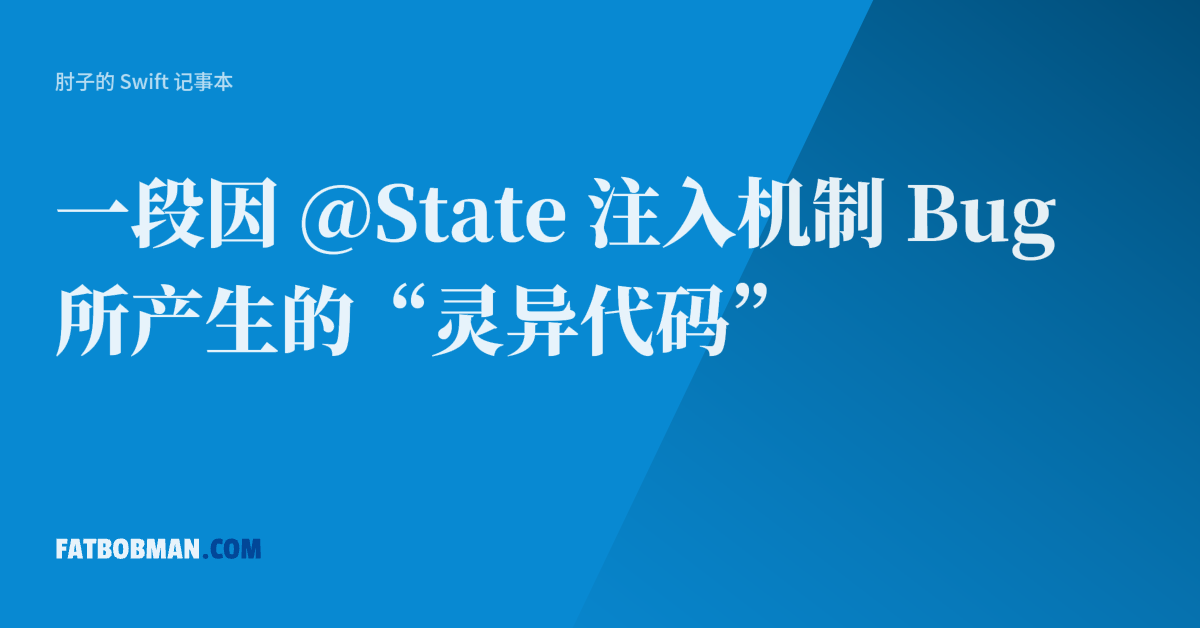
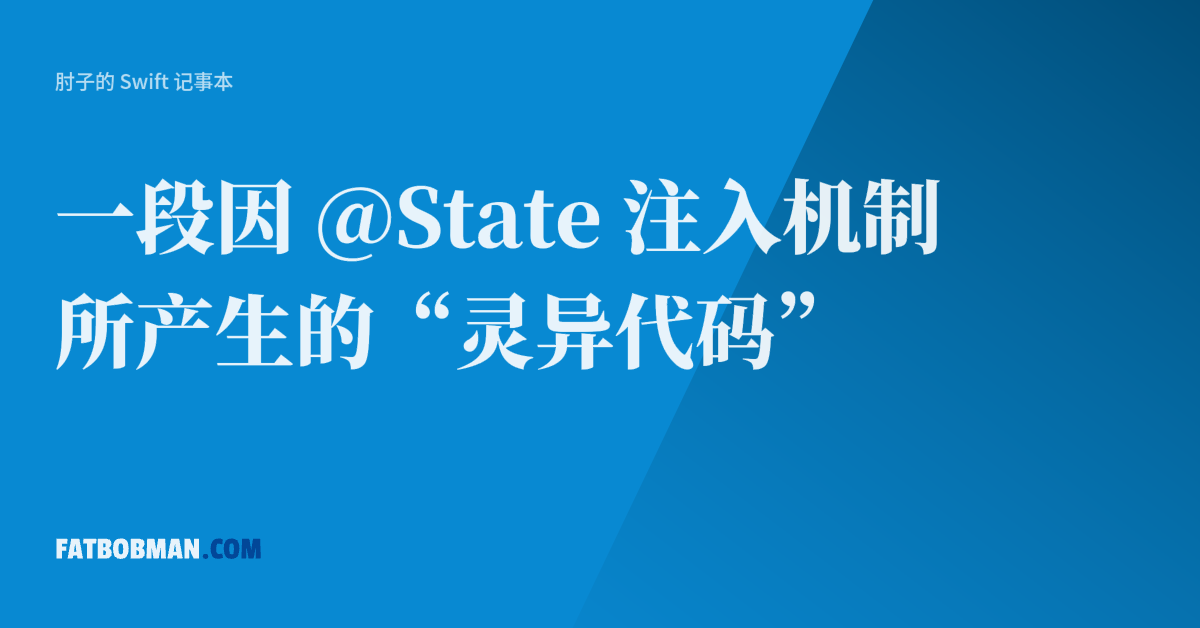
add baidu

Changed region(s): [[0.0308, 0.2723, 0.8942, 0.4236], [0.0308, 0.4538, 0.6783, 0.6051]]

diff --git a/Sources/FatbobmanBlog/Views/FatTheme.swift b/Sources/FatbobmanBlog/Views/FatTheme.swift
@@ -180,13 +180,13 @@ private struct FatThemeHTMLFactory<Site: Website>: HTMLFactory {
                             for: context,
                             selectedSection: FatbobmanBlog.SectionID.tips as? Site.SectionID
                         ),
-                       else:
-                       .header(
-                        for: context,
-                        selectedSection: nil
+                        else:
+                        .header(
+                            for: context,
+                            selectedSection: nil
+                        )
                     )
-                    )
-                    
+
                 ),
                 .container(
                     .wrapper(
@@ -533,6 +533,16 @@ let googleAndBaidu = """
 
     ga('create', _gaId, _gaDomain);
     ga('send', 'pageview');
+</script>
+
+<script>
+var _hmt = _hmt || [];
+(function() {
+  var hm = document.createElement("script");
+  hm.src = "https://hm.baidu.com/hm.js?14e5d60a3ea6276655f9d14c58b1fcd0";
+  var s = document.getElementsByTagName("script")[0]; 
+  s.parentNode.insertBefore(hm, s);
+})();
 </script>
 """
 

diff --git a/Content/posts/bug-code-by-state-inject.md b/Content/posts/bug-code-by-state-inject.md
@@ -2,7 +2,7 @@
 date: 2023-02-23 08:20
 description: 本文将通过一段可复现的“灵异代码”，对 State 注入优化机制、模态视图（ Sheet、FullScreenCover ）内容的生成时机以及不同上下文（ 相互独立的视图树 ）之间的数据协调等问题进行探讨。
 tags: SwiftUI,小题大做
-title: 一段因 @State 注入机制 Bug 所产生的“灵异代码”
+title: 一段因 @State 注入机制所产生的“灵异代码”
 image: images/bug-code-by-state-inject.png
 ---
 本文将通过一段可复现的“灵异代码”，对 State 注入优化机制、模态视图（ Sheet、FullScreenCover ）内容的生成时机以及不同上下文（ 相互独立的视图树 ）之间的数据协调等问题进行探讨。
@@ -229,9 +229,7 @@ Button("Set n = 2") {
 
 这意味着，相较于在原有视图树上创建分支，在新上下文中重建视图树的开销更大，需要进行的工作也更多。
 
-而 SwiftUI 为了优化效率，通常会对若干操作进行合并，并汇总在 一个 Render Loop 中执行。在合并操作的过程中，如果出现了前后顺序错误的问题，那么就会导致一些奇怪的结果。
-
-根据本文问题代码的表现，我们基本可以推测出，在新建 Sheet 视图树的过程中，SwiftUI 在将原有视图的 State 与 Sheet 视图进行关联时，出现了顺序错乱的问题。在已经完成了对 Sheet 视图（ 对 body 求值 ）的渲染后才进行关联。如此会导致在首次渲染时，获取的未必为最新关联值。
+而 SwiftUI 为了优化效率，通常会对若干操作进行合并。即使为新上下文中的视图进行的关联操作是在视图求值操作之前完成的，但由于 n 的变化与关联操作被集中在一个 Render Loop 中，这样会导致在关联之后并不会强制新关联的视图刷新（ 关联后，值并没有发生变化 ）。
 
 ```responser
 id:1
@@ -253,7 +251,7 @@ id:1
 
   尽管 show 也是通过 State 声明的，但 show 的变化并不会导致 ContextView 重新更新。这是因为在 `.fullScreenCover` 的构造方法中，我们传递的是 show 的 projectedValue（ Binding 类型 ）
 
-* 由于合并操作中执行顺序出现了问题，SwiftUI 在 Sheet 视图完成对 n 的关联前，率先对视图内容进行了求值（ 此时 n 为 1）并根据此值进行了渲染
+* 由于合并操作的原因，在 Sheet 视图关联到 n 后，并不会重新更新
 
 * Sheet 中的 Text 显示 n = 1
 
@@ -266,13 +264,13 @@ id:1
 * 点击 Button 后，由于 n 值发生了变化，ContextView 重新求值（ 重新解析 DSL 代码 ）
 * 在重新求值的过程中，`.fullScreenCover` 的闭包捕获了新的 n 值 （ n = 2 ）
 * 创建 Sheet 视图并渲染
-* 尽管在合并操作中出现先渲染后才关联的问题，但由于 `.fullScreenCover` 闭包已经毕竟捕获了新值，因此 Sheet 的 Text 显示为 n = 2
+* 由于 `.fullScreenCover` 闭包已经毕竟捕获了新值，因此 Sheet 的 Text 显示为 n = 2
 
 也就是说，通过添加 Text，让 ContextView 与 n 创建了关联，在 n 变化后，ContextView 进行了重新求值，从而让 `fullScreenCover` 的闭包捕获了变化后的 n 值，并呈现了预期中的结果。
 
 ## 解决方案
 
-在了解了错误的原因后，解决并避免再次出现类似的奇怪现象已不是难事。
+在了解了“异常”的原因后，解决并避免再次出现类似的奇怪现象已不是难事。
 
 ### 方案一、在 DSL 中进行关联，强制刷新
 
@@ -332,7 +330,7 @@ class VM: ObservableObject {
 
 我们可以将 Binding 类型视作一个对某值的 get 和 set 方法的包装。Sheet 视图在求值时，将通过 Binding 的 get 方法，获得 n 的最新值。
 
-> Binding 中 get 方法对应的是 ContextView 中 n 的原始地址，无需经过为 Sheet 重新注入的过程（ 可以无视顺序错误 ），因此在求值阶段便可以获得最新值
+> Binding 中 get 方法对应的是 ContextView 中 n 的原始地址，无需经过为 Sheet 重新注入的过程，因此在求值阶段便可以获得最新值
 
 ```swift
 struct Solution3: View {
